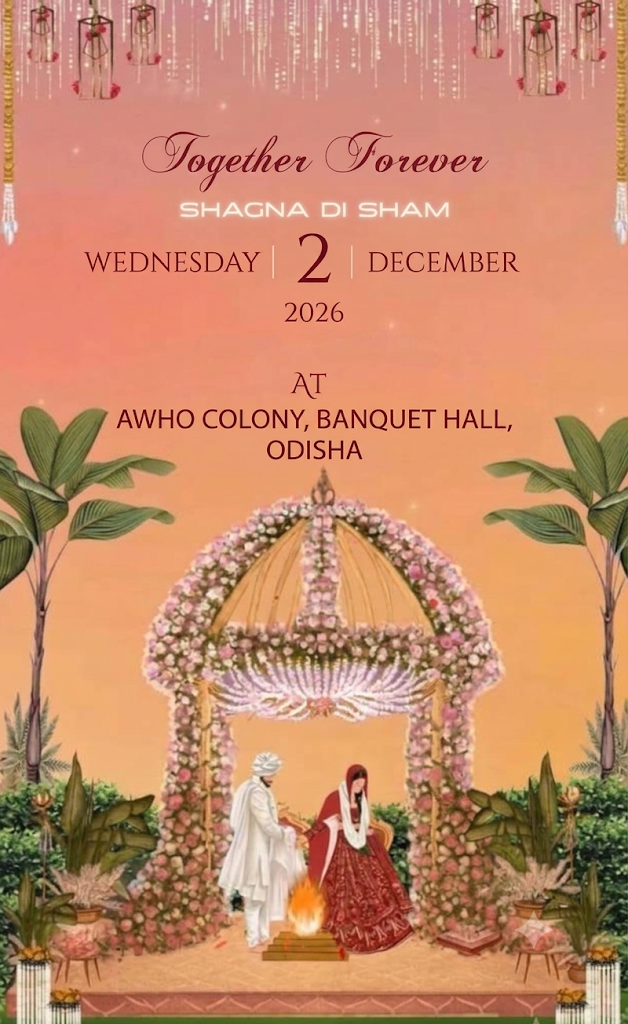
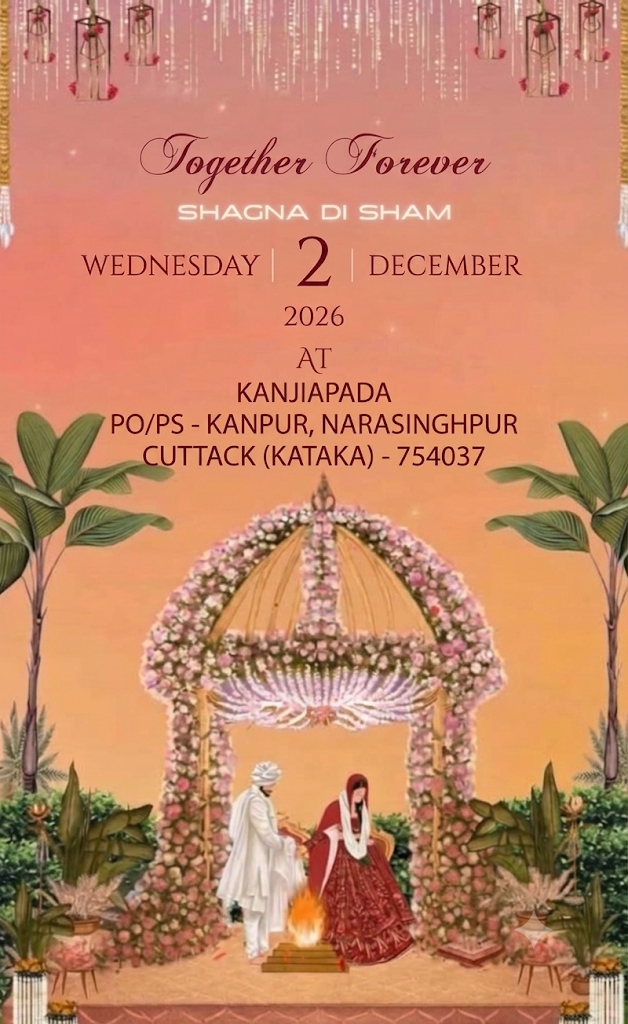
Update wedding function card im41.png with new venue (Kanjiapada, Narasinghpur, Cuttack)

diff --git a/index.html b/index.html
@@ -5634,7 +5634,7 @@
 
 
 
-            <img src="im41.png" class="schedule-card" alt="Wedding Function 5">
+            <img src="im41.png?v=2" class="schedule-card" alt="Wedding Function 5">
 
 
 
